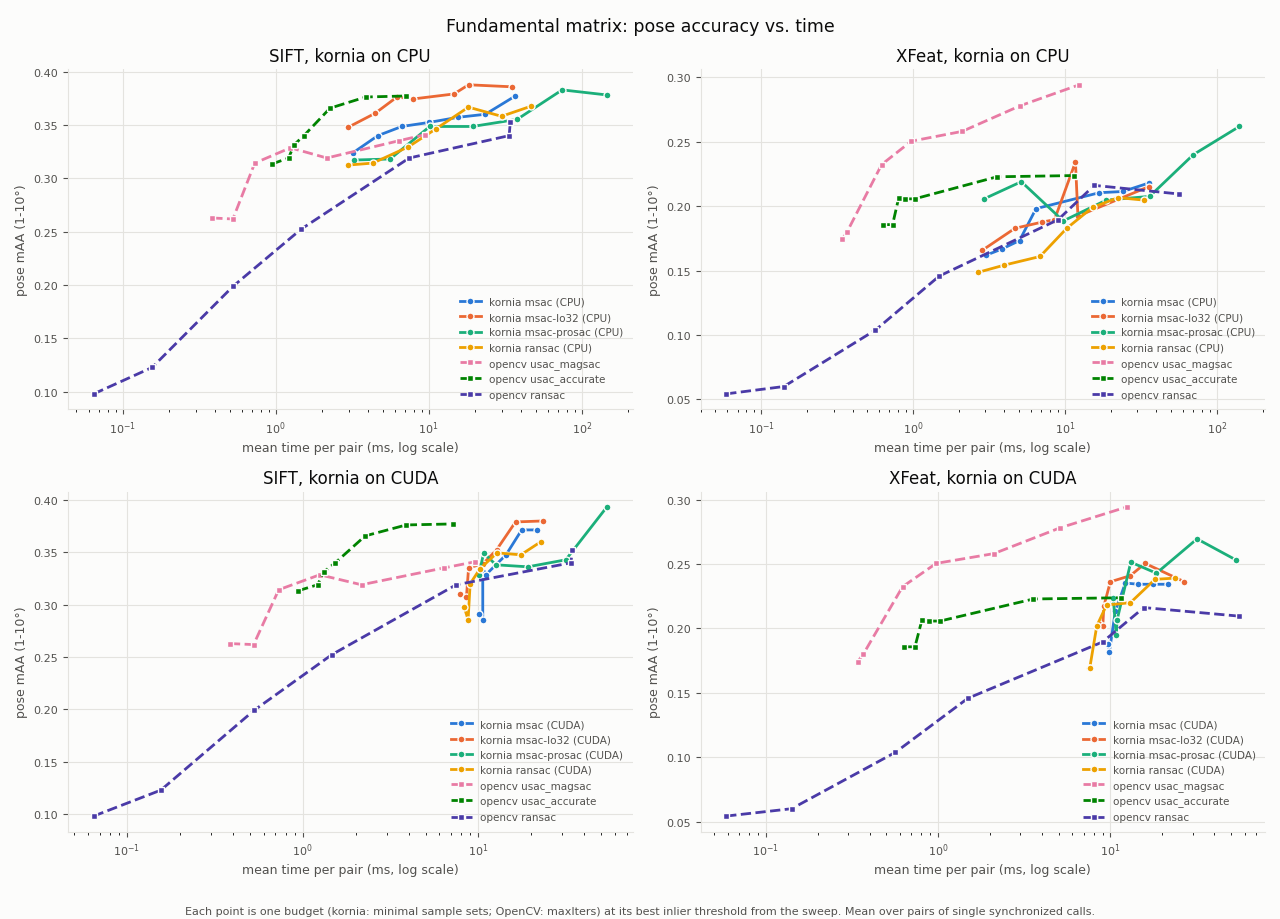
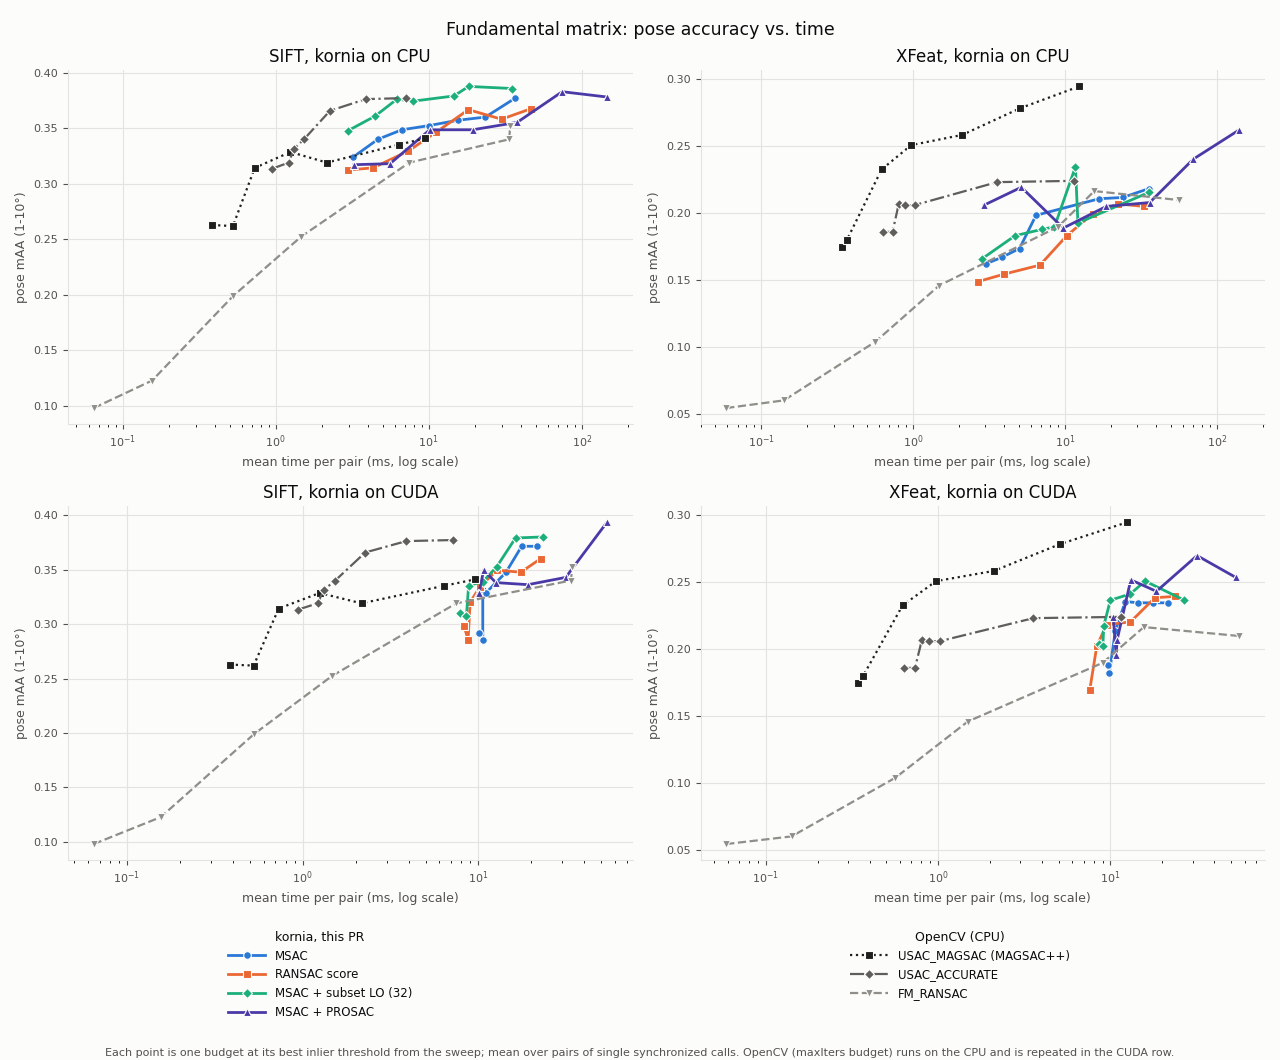
fix(ransac): let confidence=1 disable early stopping for all-inlier data; harden benchmark evaluation
max_samples_by_conf returned 1 for an all-inlier model before checking
conf >= 1, so confidence=1 still stopped after the first batch on such
data. Check the confidence-disabled case first.

The benchmark's evaluate now scores an all-zero matrix as a failed
estimate whichever command wrote it, and reads packed inlier masks
without mutating the rows, so an evaluated file can be evaluated again.
sweep gains --base-source to measure another revision's ransac.py in the
same process, and the figures separate kornia (solid, colored) from
OpenCV (grey, dotted/dashed) with grouped legends.

diff --git a/benchmarks/geometry/ransac.py b/benchmarks/geometry/ransac.py
@@ -296,12 +296,7 @@ def compare(args: argparse.Namespace) -> None:
     device, _, sync = setup_run(args, opencv=False)
     variants: dict[str, tuple[Any, dict[str, Any]]] = {"new": (RANSAC, {})}
     if args.base_source is not None:
-        spec = importlib.util.spec_from_file_location("kornia.geometry._ransac_compare_base", args.base_source)
-        if spec is None or spec.loader is None:
-            raise SystemExit(f"Cannot load {args.base_source}")
-        module = importlib.util.module_from_spec(spec)
-        spec.loader.exec_module(module)
-        variants = {"base": (module.RANSAC, {}), **variants}
+        variants = {"base": (load_ransac_module(args.base_source).RANSAC, {}), **variants}
     variants["new-lo0"] = (RANSAC, {"max_lo_iters": 0})
     for cap in [int(x) for x in args.lo_sample_sizes.split(",") if x]:
         variants[f"new-lo{cap}-subsets"] = (RANSAC, {"lo_sample_size": cap})
@@ -372,6 +367,20 @@ def compare(args: argparse.Namespace) -> None:
     finish_run(args, "geometry-ransac-compare", meta, rows)
 
 
+def load_ransac_module(path: Path) -> Any:
+    """Load another revision's ``kornia/geometry/ransac.py`` next to this checkout's module.
+
+    It imports this checkout's kornia internals, so it is only valid when that file is the sole
+    library difference between the revisions (``git show <rev>:kornia/geometry/ransac.py``).
+    """
+    spec = importlib.util.spec_from_file_location("kornia.geometry._ransac_other_revision", path)
+    if spec is None or spec.loader is None:
+        raise SystemExit(f"Cannot load {path}")
+    module = importlib.util.module_from_spec(spec)
+    spec.loader.exec_module(module)
+    return module
+
+
 SWEEP_KORNIA = {
     "msac": {"score_type": "msac"},
     "msac-lo32": {"score_type": "msac", "lo_sample_size": 32},
@@ -394,6 +403,10 @@ def sweep(args: argparse.Namespace) -> None:
     kornia_methods = [m for m in args.kornia.split(",") if m]
     opencv_methods = [m for m in args.opencv.split(",") if m]
     device, _, _ = setup_run(args, opencv=bool(opencv_methods))
+    estimators: list[tuple[str, Any]] = [("kornia", RANSAC)]
+    if args.base_source is not None:
+        # Another revision's RANSAC next to this one, interleaved per pair in the same process.
+        estimators.append(("kornia-base", load_ransac_module(args.base_source).RANSAC))
     cv2 = None
     if opencv_methods:
         import cv2
@@ -409,6 +422,7 @@ def sweep(args: argparse.Namespace) -> None:
     meta.update(
         dataset_sha256=digest(args.npz),
         ransac_source_sha256=digest(ROOT / "kornia" / "geometry" / "ransac.py"),
+        base_ransac_source_sha256=digest(args.base_source) if args.base_source is not None else None,
         thresholds_px=thresholds,
         confidence=args.confidence,
         seed=args.seed,
@@ -424,11 +438,11 @@ def sweep(args: argparse.Namespace) -> None:
             kp2 = torch.as_tensor(b[order], device=device, dtype=torch.float32)
             points1, points2 = a[order].astype(np.float64), b[order].astype(np.float64)
             calls: list[tuple[dict[str, Any], Any]] = []
-            for name, budget, threshold in itertools.product(
-                kornia_methods, [int(x) for x in args.budgets.split(",")], thresholds
+            for (prefix, ransac_class), name, budget, threshold in itertools.product(
+                estimators, kornia_methods, [int(x) for x in args.budgets.split(",")], thresholds
             ):
                 batch = min(args.batch, budget)
-                estimator = RANSAC(
+                estimator = ransac_class(
                     model_type="fundamental",
                     inl_th=threshold,
                     batch_size=batch,
@@ -438,7 +452,7 @@ def sweep(args: argparse.Namespace) -> None:
                     seed=args.seed,
                     **SWEEP_KORNIA[name],
                 )
-                config = {"method": f"kornia {name}", "device": device.type, "batch": batch}
+                config = {"method": f"{prefix} {name}", "device": device.type, "batch": batch}
                 config.update(sample_budget=budget, threshold_px=threshold)
                 calls.append((config, partial(estimator, kp1, kp2)))
             for name, iters, threshold in itertools.product(
@@ -498,19 +512,22 @@ def sweep(args: argparse.Namespace) -> None:
     finish_run(args, "geometry-ransac-sweep", meta, rows)
 
 
-# Categorical slots in fixed order (validated for adjacent-pair CVD separation); kornia lines are
-# solid, OpenCV lines dashed, so identity never rests on color alone.
-PLOT_SERIES = {
-    "kornia msac": ("#2a78d6", "-", "o"),
-    "kornia msac-lo32": ("#eb6834", "-", "o"),
-    "kornia msac-prosac": ("#1baf7a", "-", "o"),
-    "kornia ransac": ("#eda100", "-", "o"),
-    "opencv usac_magsac": ("#e87ba4", "--", "s"),
-    "opencv usac_accurate": ("#008300", "--", "s"),
-    "opencv ransac": ("#4a3aa7", "--", "s"),
+# Line style separates the families: kornia solid in color (one validated categorical hue per
+# configuration, checked all-pairs), another kornia revision dashed with hollow markers in the same
+# hue, OpenCV in neutral greys with its own dash patterns. Markers differ within each family too,
+# so identity never rests on color alone.
+PLOT_SERIES = {  # method: (label, group, color, linestyle, marker, filled)
+    "kornia msac": ("MSAC", "kornia", "#2a78d6", "-", "o", True),
+    "kornia ransac": ("RANSAC score", "kornia", "#eb6834", "-", "s", True),
+    "kornia msac-lo32": ("MSAC + subset LO (32)", "kornia", "#1baf7a", "-", "D", True),
+    "kornia msac-prosac": ("MSAC + PROSAC", "kornia", "#4a3aa7", "-", "^", True),
+    "kornia-base msac": ("MSAC", "kornia-base", "#2a78d6", "--", "o", False),
+    "kornia-base ransac": ("RANSAC score", "kornia-base", "#eb6834", "--", "s", False),
+    "opencv usac_magsac": ("USAC_MAGSAC (MAGSAC++)", "opencv", "#1f1f1e", ":", "s", True),
+    "opencv usac_accurate": ("USAC_ACCURATE", "opencv", "#5f5e5a", "-.", "D", True),
+    "opencv ransac": ("FM_RANSAC", "opencv", "#8f8e89", "--", "v", True),
 }
-
-
+PLOT_GROUPS = {"kornia": "kornia, this PR", "kornia-base": "kornia, main before this PR", "opencv": "OpenCV (CPU)"}
 PAGE, INK, MUTED, GRID = "#fcfcfb", "#0b0b0b", "#52514e", "#e4e3df"
 
 
@@ -527,55 +544,74 @@ def style_axis(axis: Any) -> None:
     axis.tick_params(colors=MUTED, labelsize=8)
 
 
+def draw_series(axis: Any, method: str, xs: list[float], ys: list[float], handles: dict[str, dict[str, Any]]) -> None:
+    """Draw one method's line in its family style and remember the handle for the grouped legend."""
+    label, group, color, linestyle, marker, filled = PLOT_SERIES[method]
+    (line,) = axis.plot(
+        xs,
+        ys,
+        color=color,
+        linestyle=linestyle,
+        linewidth=2 if group != "opencv" else 1.6,
+        marker=marker,
+        markersize=5.5,
+        markerfacecolor=color if filled else PAGE,
+        markeredgecolor=color if not filled else PAGE,
+        markeredgewidth=1.4 if not filled else 0.8,
+        label=label,
+    )
+    handles.setdefault(group, {}).setdefault(label, line)
+
+
+def grouped_legend(figure: Any, handles: dict[str, dict[str, Any]], y: float) -> None:
+    """One titled legend per family, side by side below the panels."""
+    groups = [g for g in PLOT_GROUPS if g in handles]
+    for index, group in enumerate(groups):
+        legend = figure.legend(
+            list(handles[group].values()),
+            list(handles[group]),
+            title=PLOT_GROUPS[group],
+            loc="upper center",
+            bbox_to_anchor=((index + 0.5) / len(groups), y),
+            fontsize=8.5,
+            title_fontsize=9,
+            frameon=False,
+            labelcolor=INK,
+            handlelength=3.2,
+        )
+        legend.get_title().set_color(INK)
+
+
 def plot_thresholds(plt: Any, configs: dict[tuple[Any, ...], dict[str, Any]], features: list[str], args: Any) -> None:
     """Pose mAA against the inlier threshold on the CPU sweep, every method at its largest budget."""
-    figure, axes = plt.subplots(1, len(features), figsize=(6.4 * len(features), 4.8), squeeze=False, facecolor=PAGE)
+    figure, axes = plt.subplots(1, len(features), figsize=(6.4 * len(features), 5.4), squeeze=False, facecolor=PAGE)
     thresholds = sorted({key[4] for key in configs})
+    handles: dict[str, dict[str, Any]] = {}
     for axis, feature in zip(axes[0], features):
-        for method, (color, style, marker) in PLOT_SERIES.items():
+        for method in PLOT_SERIES:
             budgets = [key[3] for key in configs if key[:3] == (feature, method, "cpu")]
             if not budgets:
                 continue
             largest = (feature, method, "cpu", max(budgets))
             points = sorted((key[4], value["maa"]) for key, value in configs.items() if key[:4] == largest)
-            axis.plot(
-                [threshold for threshold, _ in points],
-                [maa for _, maa in points],
-                color=color,
-                linestyle=style,
-                marker=marker,
-                markersize=5,
-                linewidth=2,
-                markeredgecolor=PAGE,
-                label=f"{method} ({max(budgets)})",
-            )
+            draw_series(axis, method, [t for t, _ in points], [m for _, m in points], handles)
         style_axis(axis)
         axis.set_xticks(thresholds, [f"{t:g}" for t in thresholds])
         axis.minorticks_off()
         axis.set_title({"sift": "SIFT", "xfeat": "XFeat"}.get(feature, feature), color=INK)
         axis.set_xlabel("inlier threshold (px, log scale)", color=MUTED, fontsize=9)
         axis.set_ylabel("pose mAA (1-10°)", color=MUTED, fontsize=9)
-    handles, labels = axes[0][0].get_legend_handles_labels()
-    figure.legend(
-        handles,
-        labels,
-        loc="lower center",
-        ncol=4,
-        fontsize=8,
-        frameon=False,
-        labelcolor=MUTED,
-        bbox_to_anchor=(0.5, 0.04),
-    )
-    figure.suptitle("Fundamental matrix: pose accuracy vs. inlier threshold (CPU, largest budget)", color=INK)
+    figure.suptitle(args.title or "Pose accuracy vs. inlier threshold (CPU, largest budget)", color=INK)
+    grouped_legend(figure, handles, 0.2)
     figure.text(
         0.5,
         0.005,
-        "Kornia at 16384 minimal sample sets, OpenCV at maxIters 25600 (legend: budget).",
+        "Each method at its largest budget: kornia 16384 minimal sample sets, OpenCV maxIters 25600.",
         ha="center",
         fontsize=8,
         color=MUTED,
     )
-    figure.tight_layout(rect=(0, 0.17, 1, 1))
+    figure.tight_layout(rect=(0, 0.2, 1, 1))
     figure.savefig(args.threshold_out, dpi=args.dpi, facecolor=PAGE)
     print(f"# figure written to {args.threshold_out}")
 
@@ -610,51 +646,48 @@ def plot(args: argparse.Namespace) -> None:
             }
         )
     features = sorted({feature for feature, _ in curves})
-    devices = [d for d in ("cpu", "cuda") if any(device == d for _, device in curves)]
-    ink, muted, page = INK, MUTED, PAGE
+    devices = [
+        d
+        for d in ("cpu", "cuda")
+        if any(
+            device == d and any(not m.startswith("opencv") for m in methods) for (_, device), methods in curves.items()
+        )
+    ]
     figure, axes = plt.subplots(
-        len(devices), len(features), figsize=(6.4 * len(features), 4.6 * len(devices)), squeeze=False, facecolor=page
+        len(devices),
+        len(features),
+        figsize=(6.4 * len(features), 4.6 * len(devices) + 1.4),
+        squeeze=False,
+        facecolor=PAGE,
     )
+    handles: dict[str, dict[str, Any]] = {}
     for row, device in enumerate(devices):
         for column, feature in enumerate(features):
             axis = axes[row][column]
             lines = dict(curves[feature, device])
             if device != "cpu":  # OpenCV runs on the CPU; repeat it as the reference in every row
                 lines.update({m: p for m, p in curves.get((feature, "cpu"), {}).items() if m.startswith("opencv")})
-            for method, (color, style, marker) in PLOT_SERIES.items():
-                if method not in lines:
-                    continue
-                points = sorted(lines[method], key=lambda p: p["mean_time_ms"])
-                label = method if method.startswith("opencv") else f"{method} ({device.upper()})"
-                axis.plot(
-                    [p["mean_time_ms"] for p in points],
-                    [p["maa"] for p in points],
-                    color=color,
-                    linestyle=style,
-                    marker=marker,
-                    markersize=5,
-                    linewidth=2,
-                    markeredgecolor=page,
-                    label=label,
-                )
+            for method in PLOT_SERIES:
+                if method in lines:
+                    points = sorted(lines[method], key=lambda p: p["mean_time_ms"])
+                    draw_series(axis, method, [p["mean_time_ms"] for p in points], [p["maa"] for p in points], handles)
             style_axis(axis)
             name = {"sift": "SIFT", "xfeat": "XFeat"}.get(feature, feature)
-            axis.set_title(f"{name}, kornia on {device.upper()}", color=ink)
-            axis.set_xlabel("mean time per pair (ms, log scale)", color=muted, fontsize=9)
-            axis.set_ylabel("pose mAA (1-10°)", color=muted, fontsize=9)
-            axis.legend(loc="lower right", fontsize=7.5, frameon=False, labelcolor=muted)
-    figure.suptitle("Fundamental matrix: pose accuracy vs. time", color=ink, fontsize=12.5)
-    figure.text(
-        0.5,
-        0.005,
-        "Each point is one budget (kornia: minimal sample sets; OpenCV: maxIters) at its best inlier threshold "
-        "from the sweep. Mean over pairs of single synchronized calls.",
-        ha="center",
-        fontsize=8,
-        color=muted,
+            axis.set_title(f"{name}, kornia on {device.upper()}", color=INK)
+            axis.set_xlabel("mean time per pair (ms, log scale)", color=MUTED, fontsize=9)
+            axis.set_ylabel("pose mAA (1-10°)", color=MUTED, fontsize=9)
+    figure.suptitle(args.title or "Fundamental matrix: pose accuracy vs. time", color=INK, fontsize=12.5)
+    legend_space = 1.4 / (4.6 * len(devices) + 1.4)
+    grouped_legend(figure, handles, legend_space)
+    note = (
+        "Each point is one budget at its best inlier threshold from the sweep; "
+        "mean over pairs of single synchronized calls."
     )
-    figure.tight_layout(rect=(0, 0.03, 1, 1))
-    figure.savefig(args.out, dpi=args.dpi, facecolor=page)
+    if "opencv" in handles:
+        note += " OpenCV (maxIters budget) runs on the CPU and is repeated in the CUDA row."
+    figure.text(0.5, 0.004, note, ha="center", fontsize=8, color=MUTED)
+    figure.tight_layout(rect=(0, legend_space, 1, 1))
+    figure.savefig(args.out, dpi=args.dpi, facecolor=PAGE)
     print(f"# figure written to {args.out}")
     if args.points_json is not None:
         points_out = {f"{f}|{d}": dict(methods) for (f, d), methods in curves.items()}
@@ -693,9 +726,10 @@ def evaluate(args: argparse.Namespace) -> None:
         for row in document["results"]:
             key = row["pair"]
             errors = dict.fromkeys(("R_err", "t_err", "max_err"), float("inf"))
-            if "matrix" in row and np.isfinite(row["matrix"]).all():
+            # An all-zero matrix is RANSAC's failure result, whichever command wrote it.
+            if "matrix" in row and np.isfinite(row["matrix"]).all() and np.abs(row["matrix"]).max() > 0:
                 if "inliers_packed" in row:
-                    packed = np.frombuffer(base64.b64decode(row.pop("inliers_packed")), dtype=np.uint8)
+                    packed = np.frombuffer(base64.b64decode(row["inliers_packed"]), dtype=np.uint8)
                     inliers = np.flatnonzero(np.unpackbits(packed)[: row["correspondences"]])
                 else:
                     inliers = np.array(row["inlier_indices"], dtype=int)
@@ -783,6 +817,7 @@ def main() -> None:
     sw.add_argument("--threads", type=int, default=4)
     sw.add_argument("--kornia", default=",".join(SWEEP_KORNIA), help=f"subset of {','.join(SWEEP_KORNIA)}")
     sw.add_argument("--opencv", default=",".join(SWEEP_OPENCV), help=f"subset of {','.join(SWEEP_OPENCV)}")
+    sw.add_argument("--base-source", type=Path, help="also sweep another revision's ransac.py as 'kornia-base'")
     sw.add_argument("--budgets", default="256,512,1024,2048,4096,8192,16384", help="kornia minimal-sample budgets")
     sw.add_argument("--batch", type=int, default=256, help="kornia batch size (smaller budgets use one batch)")
     sw.add_argument("--opencv-iters", default="10,25,100,400,1600,6400,25600")
@@ -801,6 +836,7 @@ def main() -> None:
     pl.add_argument("--dpi", type=int, default=150)
     pl.add_argument("--points-json", type=Path)
     pl.add_argument("--threshold-out", type=Path, help="also draw mAA against the inlier threshold")
+    pl.add_argument("--title", help="figure title")
     ab = commands.add_parser("compare")
     ab.add_argument("--device", default="cpu")
     ab.add_argument("--dtype", choices=("float32",), default="float32")

diff --git a/tests/geometry/test_ransac.py b/tests/geometry/test_ransac.py
@@ -885,12 +885,13 @@ class TestRANSACScoringAndStopping(BaseTester):
         expected = math.ceil(math.log1p(-0.99) / math.log1p(-1 / math.comb(10, 4)))
         assert RANSAC.max_samples_by_conf(4, 10, 4, 0.99) == expected
 
-    @pytest.mark.parametrize("confidence,batches", [(0.99, 1), (1.0, 3)])
-    def test_unit_confidence_runs_full_budget(self, device, dtype, confidence, batches):
-        # 19 of 20 inliers: 0.99 confidence needs three minimal samples, i.e. one batch.
+    @pytest.mark.parametrize("confidence,outliers,batches", [(0.99, 1, 1), (1.0, 1, 3), (0.99, 0, 1), (1.0, 0, 3)])
+    def test_unit_confidence_runs_full_budget(self, device, dtype, confidence, outliers, batches):
+        # 19 of 20 inliers: 0.99 confidence needs three minimal samples, i.e. one batch. With every
+        # point an inlier the bound is one sample, but confidence=1 must still run the whole budget.
         points = torch.rand(20, 2, device=device, dtype=dtype)
         target = points.clone()
-        target[0] += 100
+        target[:outliers] += 100
         matrix = torch.eye(3, device=device, dtype=dtype)[None]
         ransac = RANSAC("homography", batch_size=8, max_iter=3, max_lo_iters=0, confidence=confidence)
         calls = []

diff --git a/kornia/geometry/ransac.py b/kornia/geometry/ransac.py
@@ -272,12 +272,11 @@ class RANSAC(nn.Module):
         """
         if conf <= 0.0:
             return 1
-        if num_tc < sample_size or n_inl < sample_size:
+        # conf >= 1 disables early stopping, even when every correspondence is an inlier.
+        if conf >= 1.0 or num_tc < sample_size or n_inl < sample_size:
             return sys.maxsize
         if n_inl >= num_tc:
             return 1
-        if conf >= 1.0:
-            return sys.maxsize
         # Proper RANSAC formula for sampling without replacement
         # P(all samples are inliers) = (n_inl/num_tc) * ((n_inl-1)/(num_tc-1)) * ...
         # ... * ((n_inl-sample_size+1)/(num_tc-sample_size+1))

diff --git a/benchmarks/geometry/ransac.md b/benchmarks/geometry/ransac.md
@@ -98,6 +98,10 @@ References: [Torr and Zisserman, MLESAC/MSAC (2000)](https://robots.ox.ac.uk/~vg
 Base: Kornia `0.9.0rc1`, commit `7ddf731b` (RANSAC source SHA-256 `404f18bc...`).
 Changed: this branch (RANSAC source `1fcfd172...`). `kornia/geometry/ransac.py` is the
 only library file that differs. Exact source hashes are recorded in each result JSON.
+The final source (`196717b2...`, used for the before/after sweep) differs from `1fcfd172`
+only in checking `confidence >= 1` before the all-inlier shortcut of
+`max_samples_by_conf`. Runs at confidence 0.999 never reach that branch, and the
+`confidence=1` runs would need a pair whose correspondences are all inliers.
 Python 3.11.14, PyTorch 2.14.0+cu130, OpenCV 4.11.0, Intel i7-14700K under WSL2
 (four PyTorch and OpenCV threads), NVIDIA RTX 4090. Float32,
 eight-point fundamental estimation, 2-pixel Sampson threshold, confidence 0.999,
